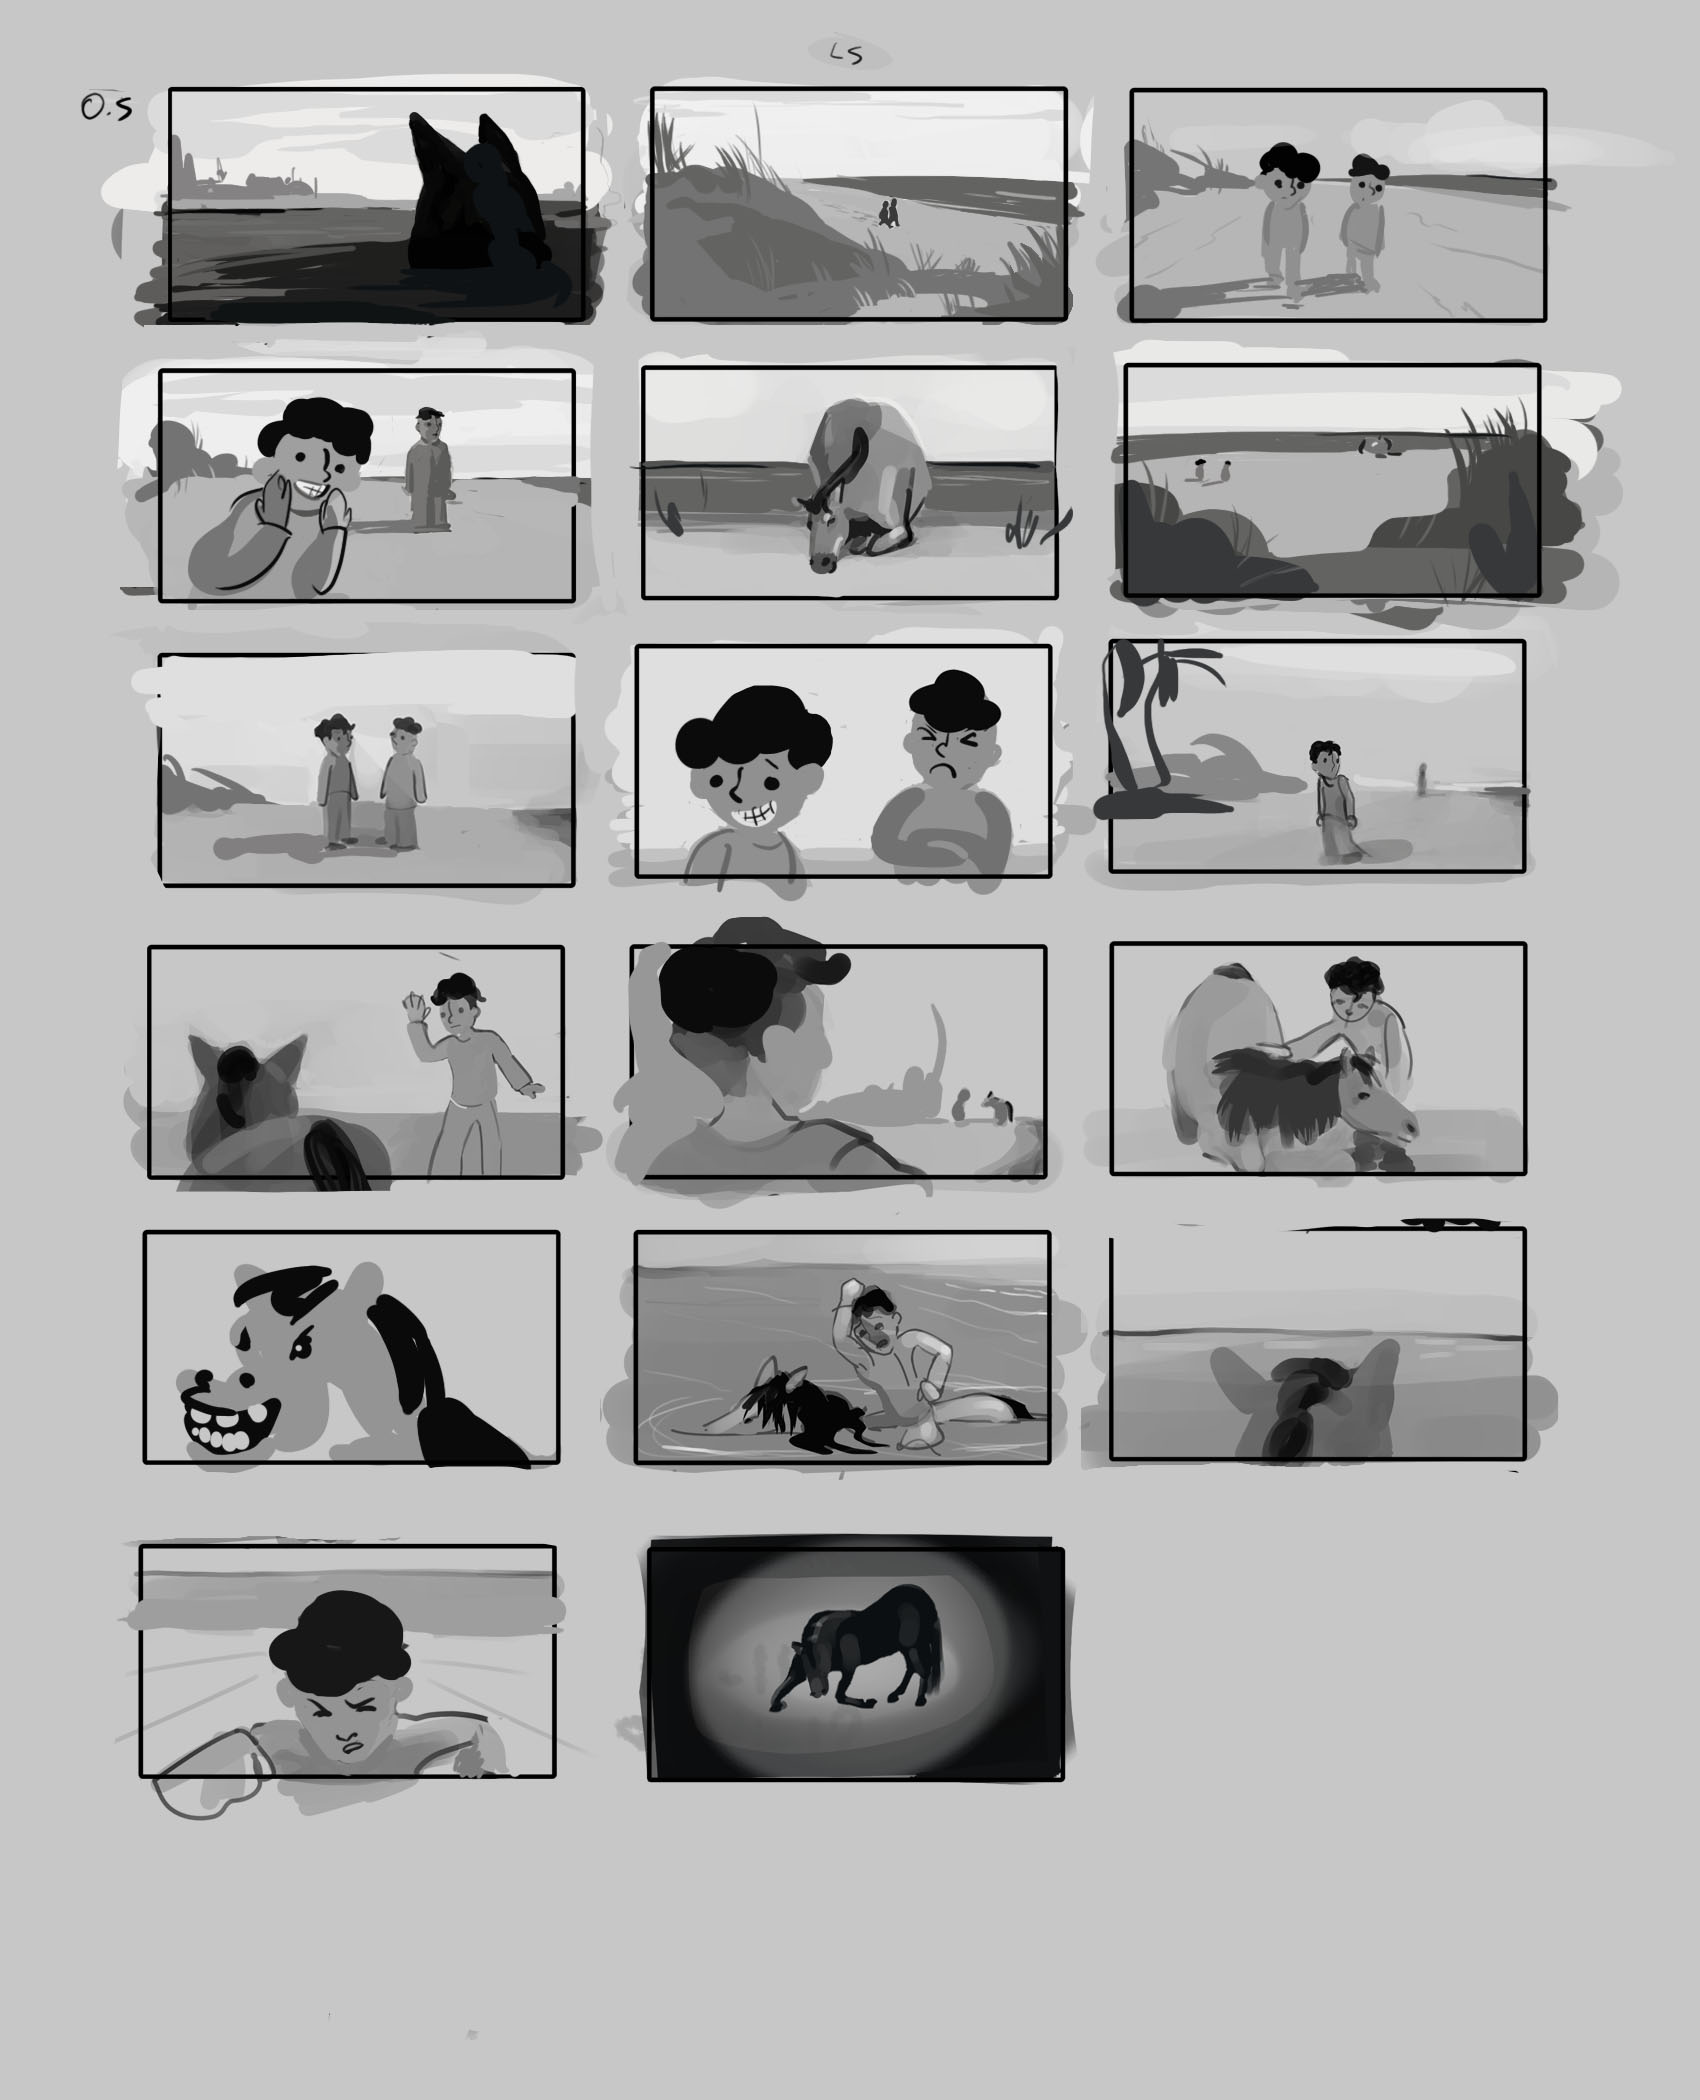
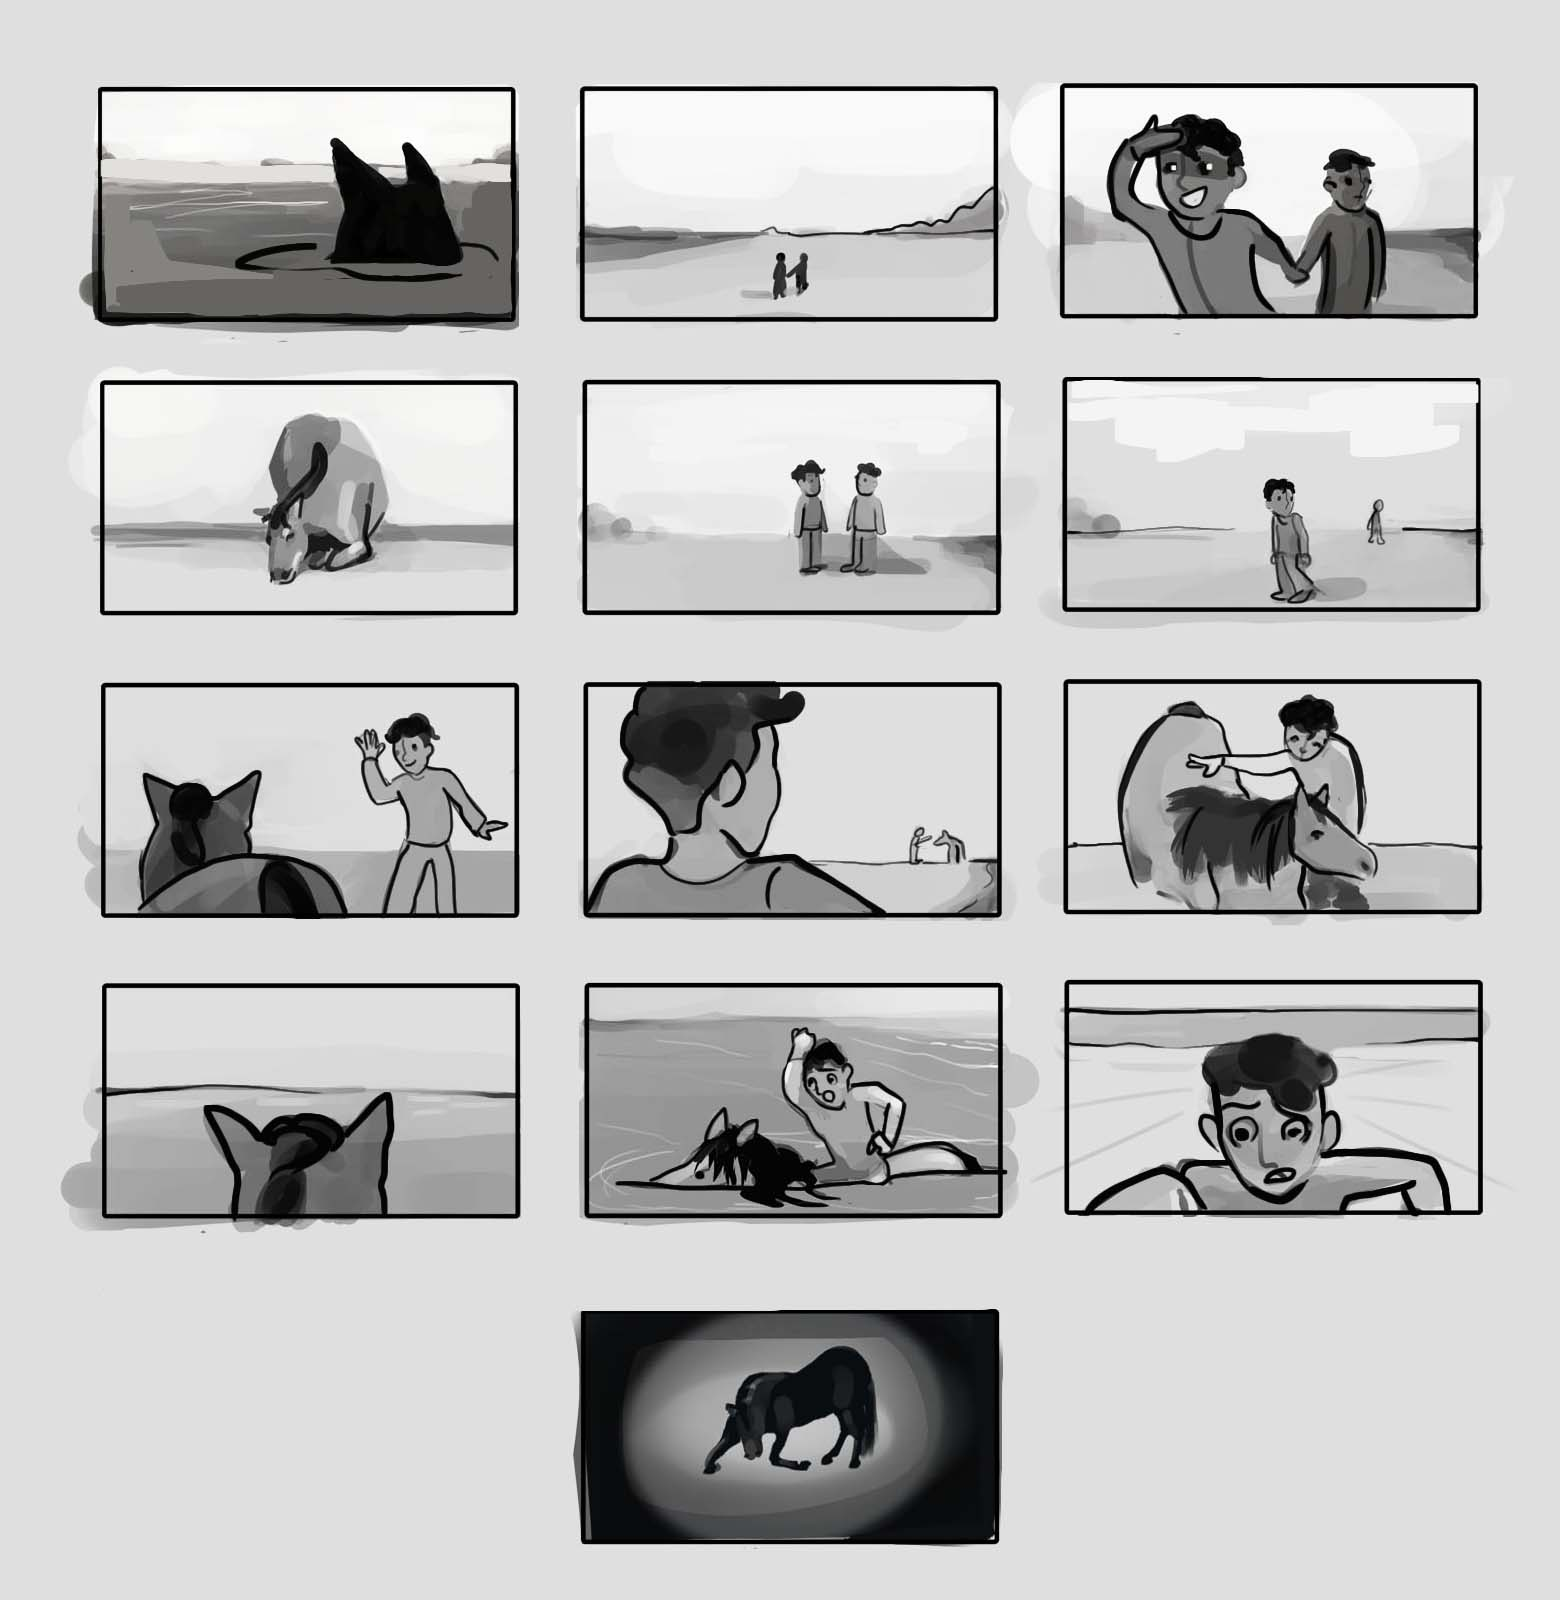
dsafdas
fasfa

diff --git a/W_water/index.html b/W_water/index.html
@@ -77,7 +77,10 @@
   </aside>
   <main>
     <div class="iframe-container"> <iframe width="1131" height="636" src="https://www.youtube.com/embed/eDI2NNBaaQw" title="Water Horse 2022 - Animated Short" frameborder="0" allow="accelerometer; autoplay; clipboard-write; encrypted-media; gyroscope; picture-in-picture; web-share" allowfullscreen style="position:absolute;top:0;left:0;width:100%;height:100%;"></iframe></div>
-      <img src="img/thumbanil.jpg"style="margin-top: 10px;">
+    <h1>Screenshots</h1> 
+    <img src="img/thumbanil.jpg"style="margin-top: 10px;">
+      <h1>Thumbnails</h1> <div class="h3">Quick sketches for brainstorming the plot.</div>
+      <img src="img/Water Horse stryboard.jpg"style="margin-top: 10px; width:70%; ">
   </main>
 </div>
 <footer></footer>
